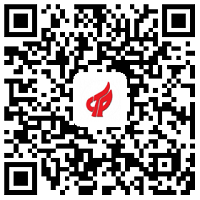
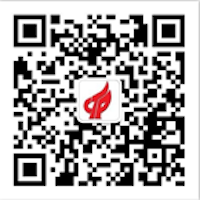
v4.1.3
1.增加脚注
2.修改项目中字段显示
3.修改微信二维码

diff --git a/Application/Home/View/Public/login.html b/Application/Home/View/Public/login.html
@@ -51,12 +51,13 @@
 				<p><img id="ios_page" src="__INS__/img/login/ios.png" style="border: 1px solid #E2E2E2;display:none;"></p>
 			</div>
 			<div style="text-align:center;margin: 10% 5%;">
-				请使用微信扫描二维码
+				请使用微信或QQ扫描二维码
 			</div>
 		</div>
 	</div>
-	
-	
+	<div style="position:absolute;top:700px;color: #ffffff;width: 640px;text-align: center;">
+		Copyright © 2017 中国石河子高新区
+	</div>
 	<script src="__INS__/js/jquery-2.1.1.js"></script>
 	<script src="__INS__/js/common.js"></script>
 	<script type="text/javascript">

diff --git a/Application/Home/View/Task/folder.html b/Application/Home/View/Task/folder.html
@@ -65,7 +65,7 @@
 						</notempty></a>
 					</li>
 					<li <eq name="fid" value="no_assign">class="active"</eq>>
-						<a href="{:U('folder','fid=no_assign')}" >不知让谁处理
+						<a href="{:U('folder','fid=no_assign')}" >未指定处理对象
 						<notempty name="no_assign_task_count">
 							<span class="badge badge-pink">{$no_assign_task_count}</span>
 						</notempty></a>

diff --git a/Application/Home/View/Task/index.html b/Application/Home/View/Task/index.html
@@ -61,7 +61,7 @@
 					<a href="{:U('index')}">我部门的项目</a>
 				</li>
 				<li>
-					<a href="{:U('index')}">不知让谁处理的项目</a>
+					<a href="{:U('index')}">未指定处理对象的项目</a>
 				</li>
 				<li>
 					<a href="{:U('index')}">未完成的项目</a>
